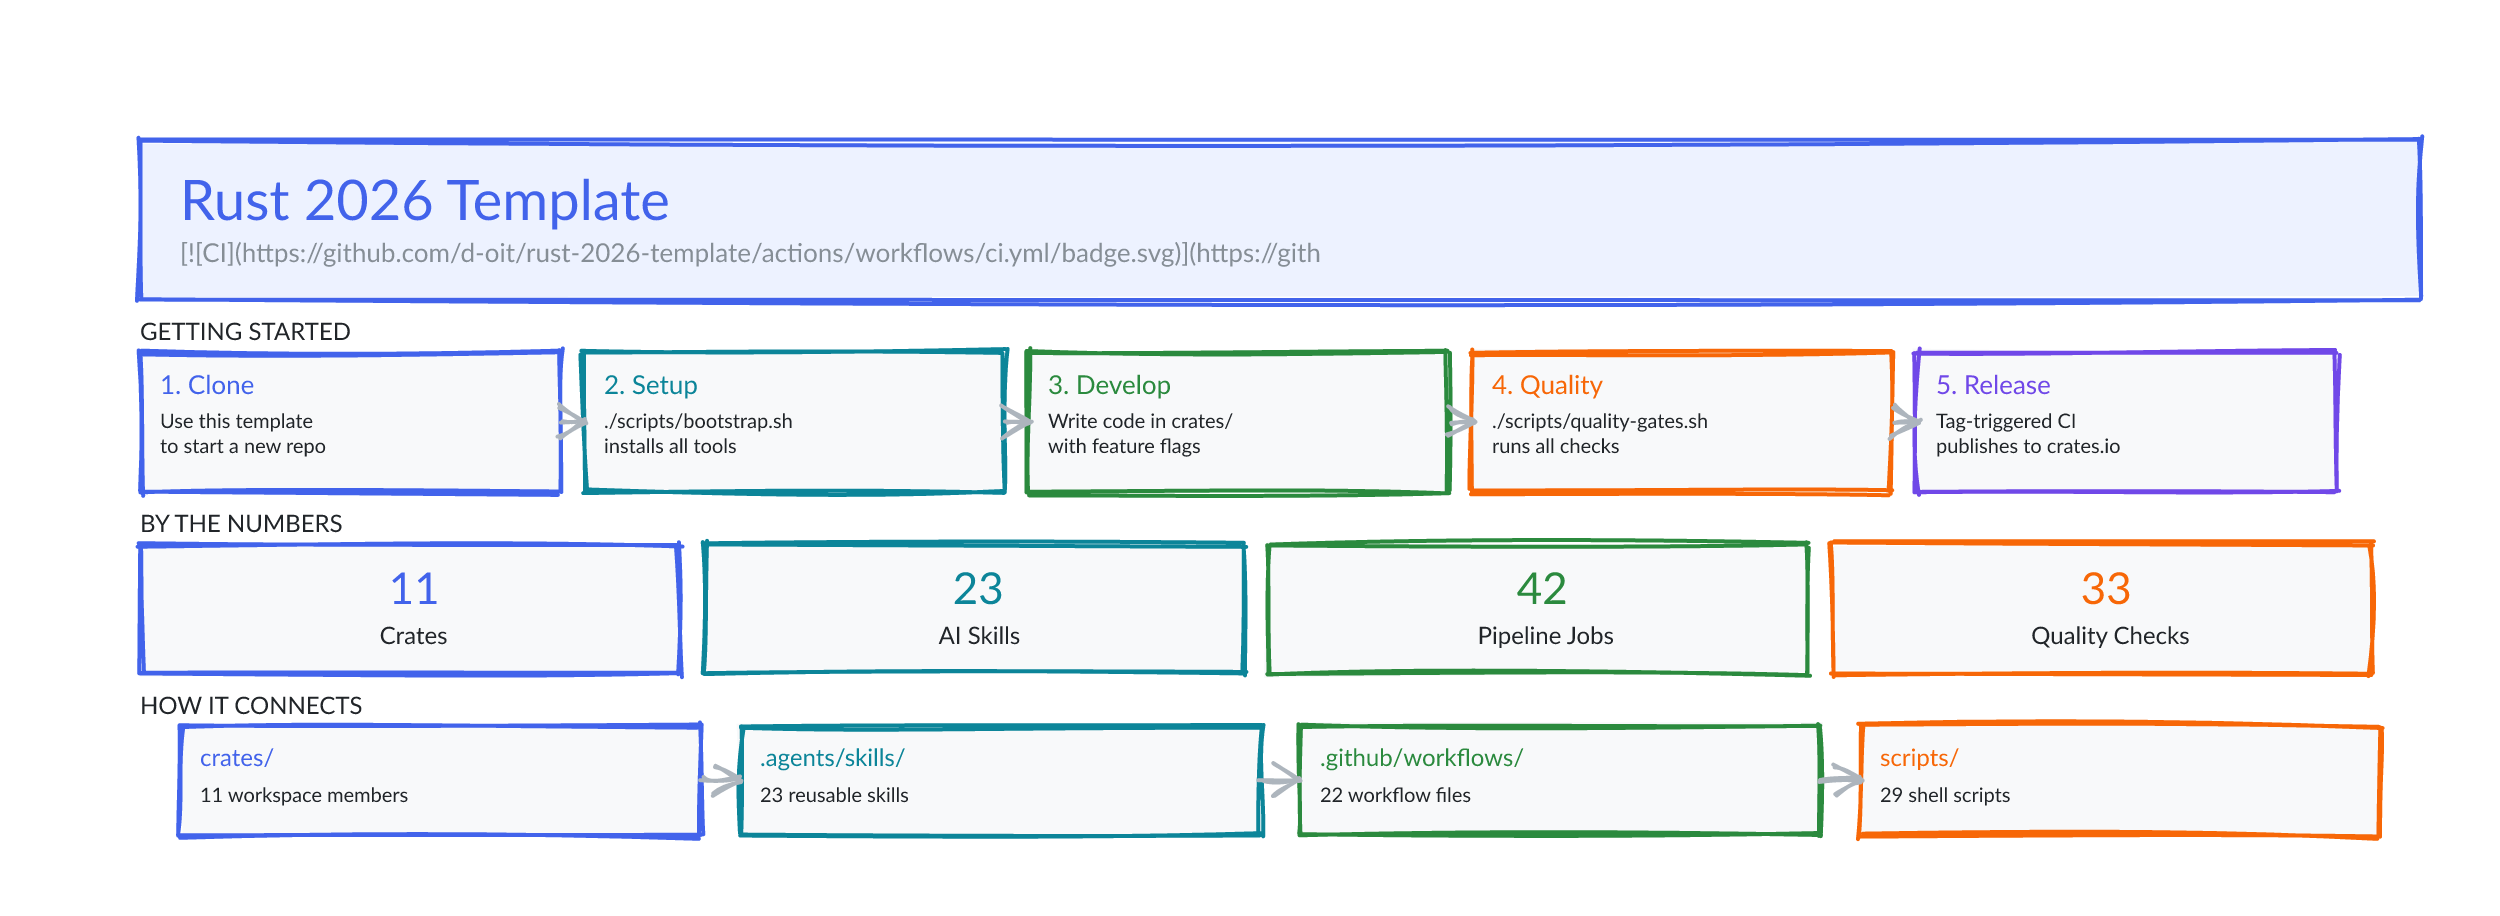
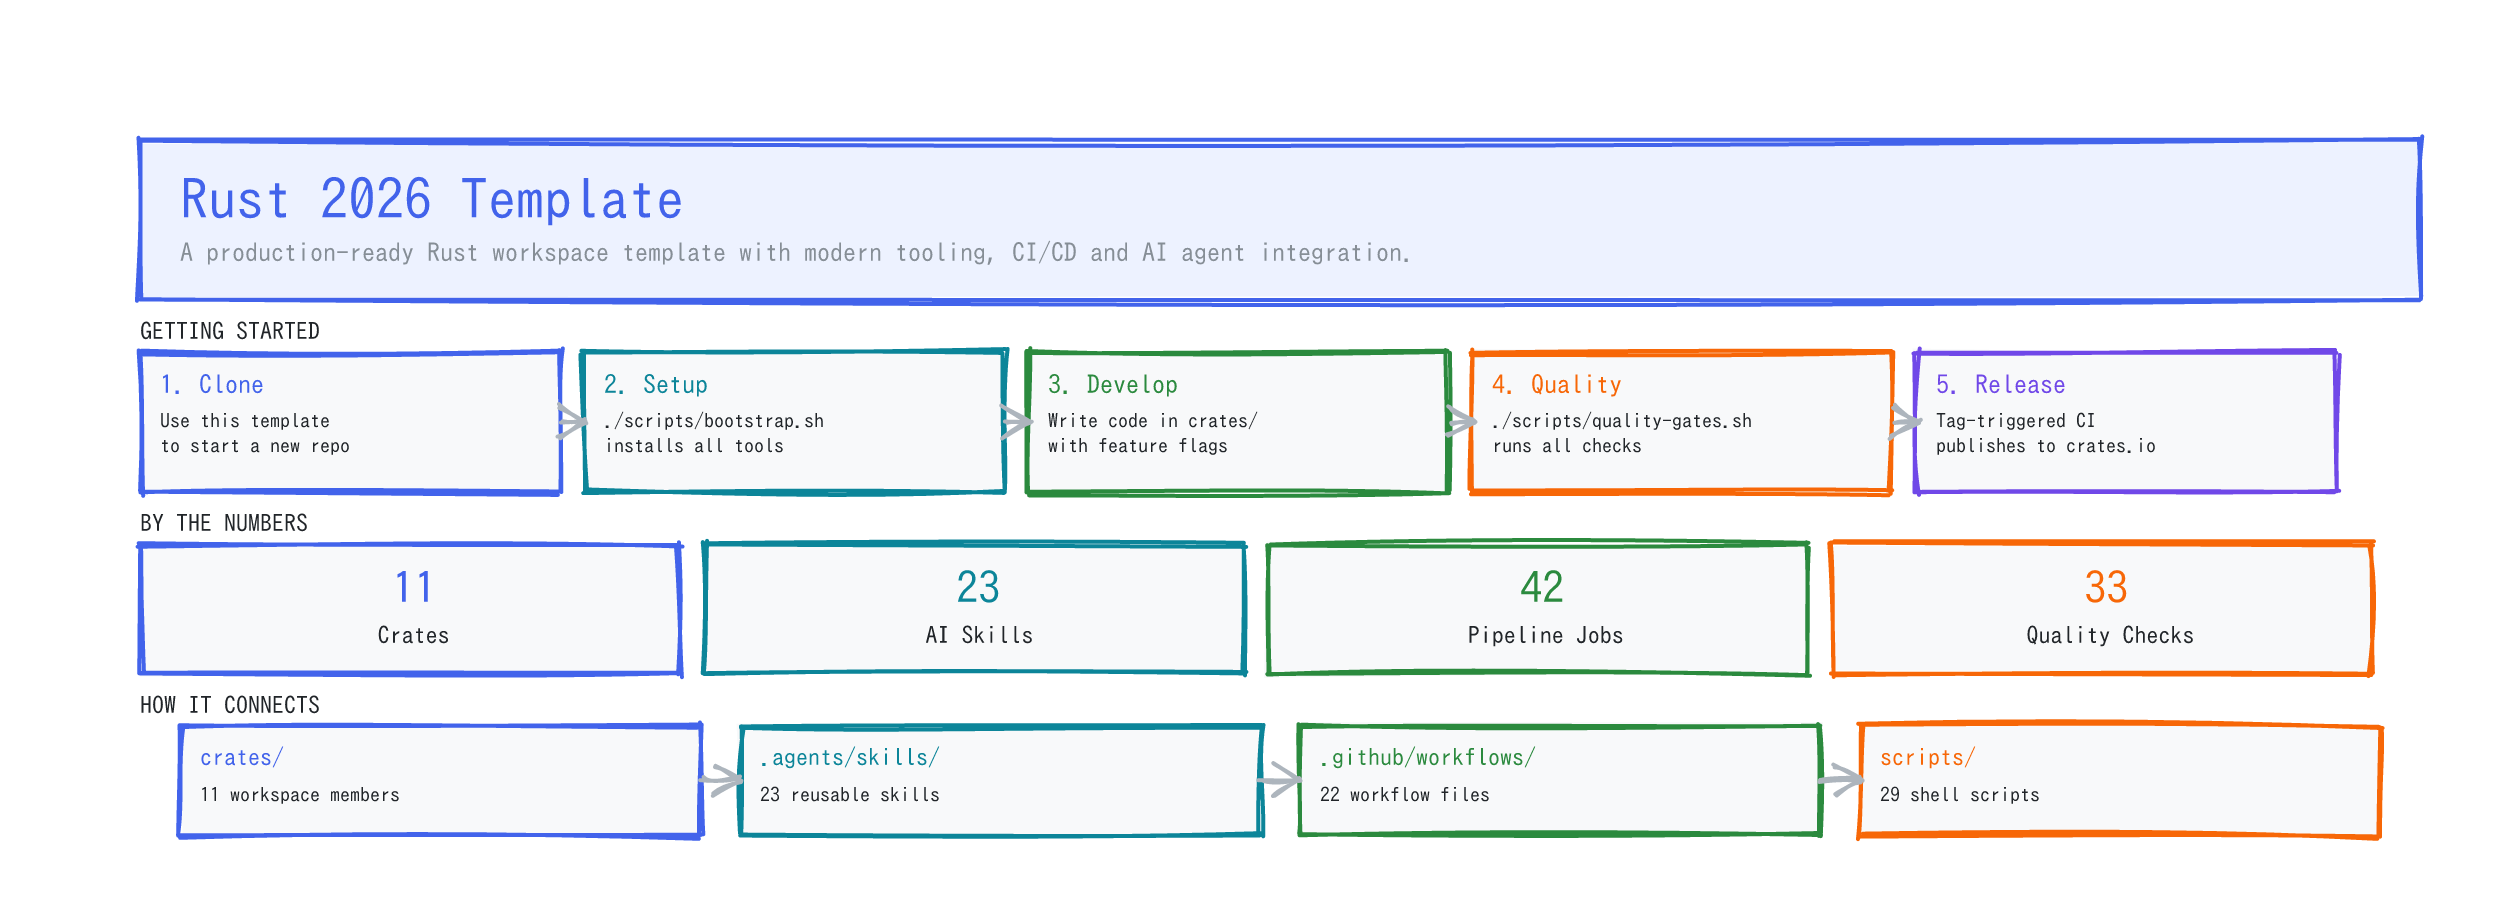
fix(overview): skip badge and bold lines when extracting readme tagline

diff --git a/.agents/skills/architecture-diagram/scripts/generate_overview.py b/.agents/skills/architecture-diagram/scripts/generate_overview.py
@@ -208,7 +208,7 @@ def generate(root: Path) -> dict:
         try:
             first_para = [
                 ln.strip() for ln in readme.read_text(encoding="utf-8").splitlines()
-                if ln.strip() and not ln.startswith("#") and not ln.startswith("<!")
+                if ln.strip() and not ln.startswith("#") and not ln.startswith("<!") and not ln.startswith("[") and not ln.startswith("**")
             ]
             if first_para:
                 tagline_str = first_para[0][:100]
